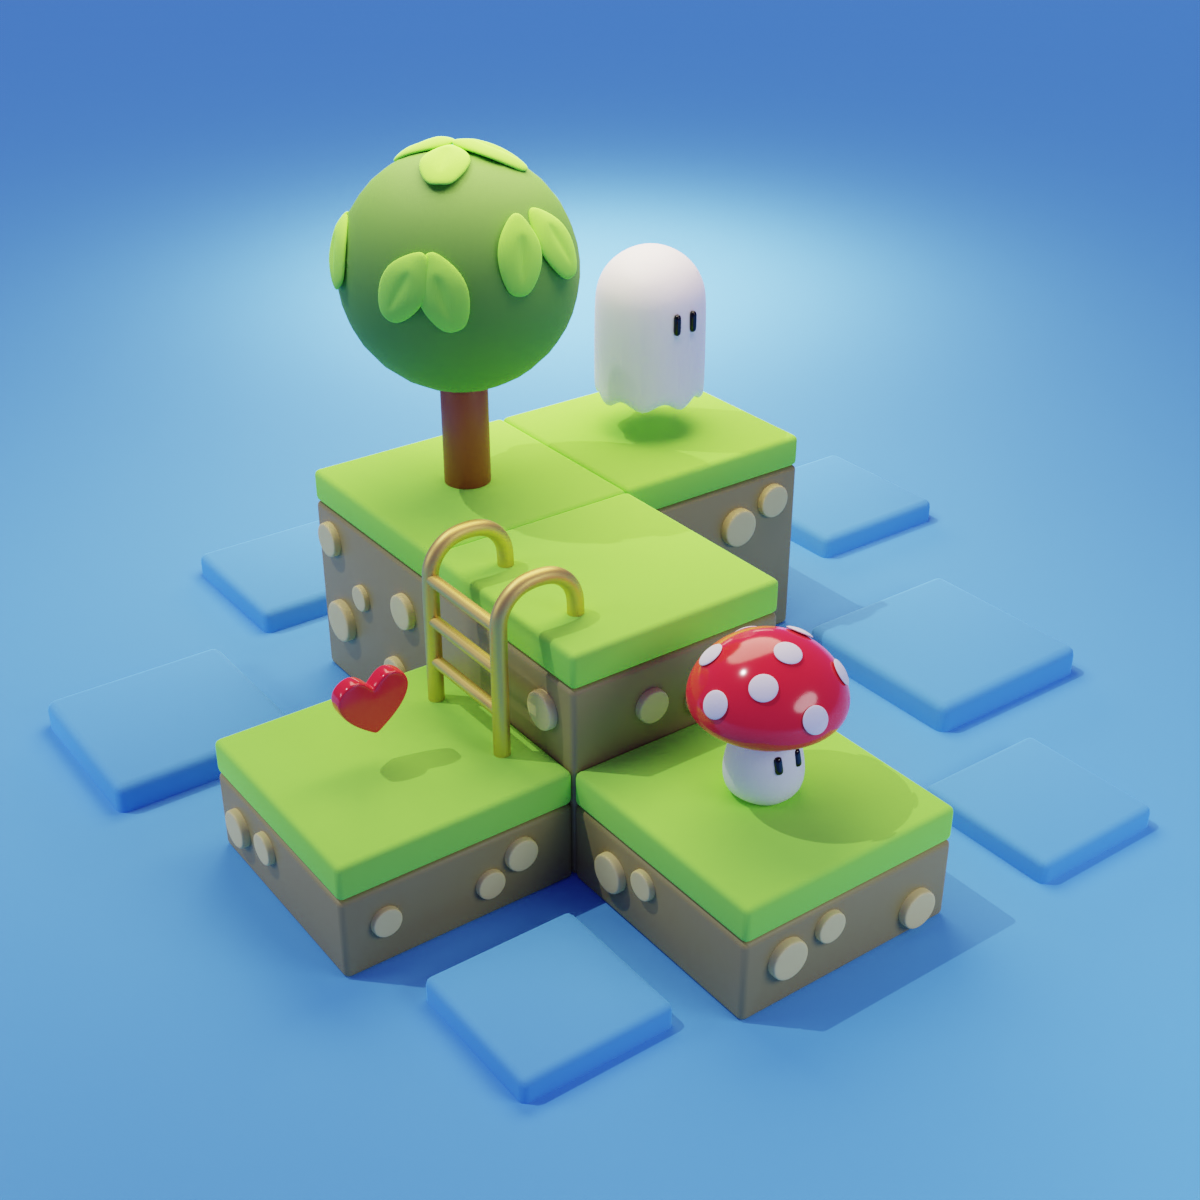
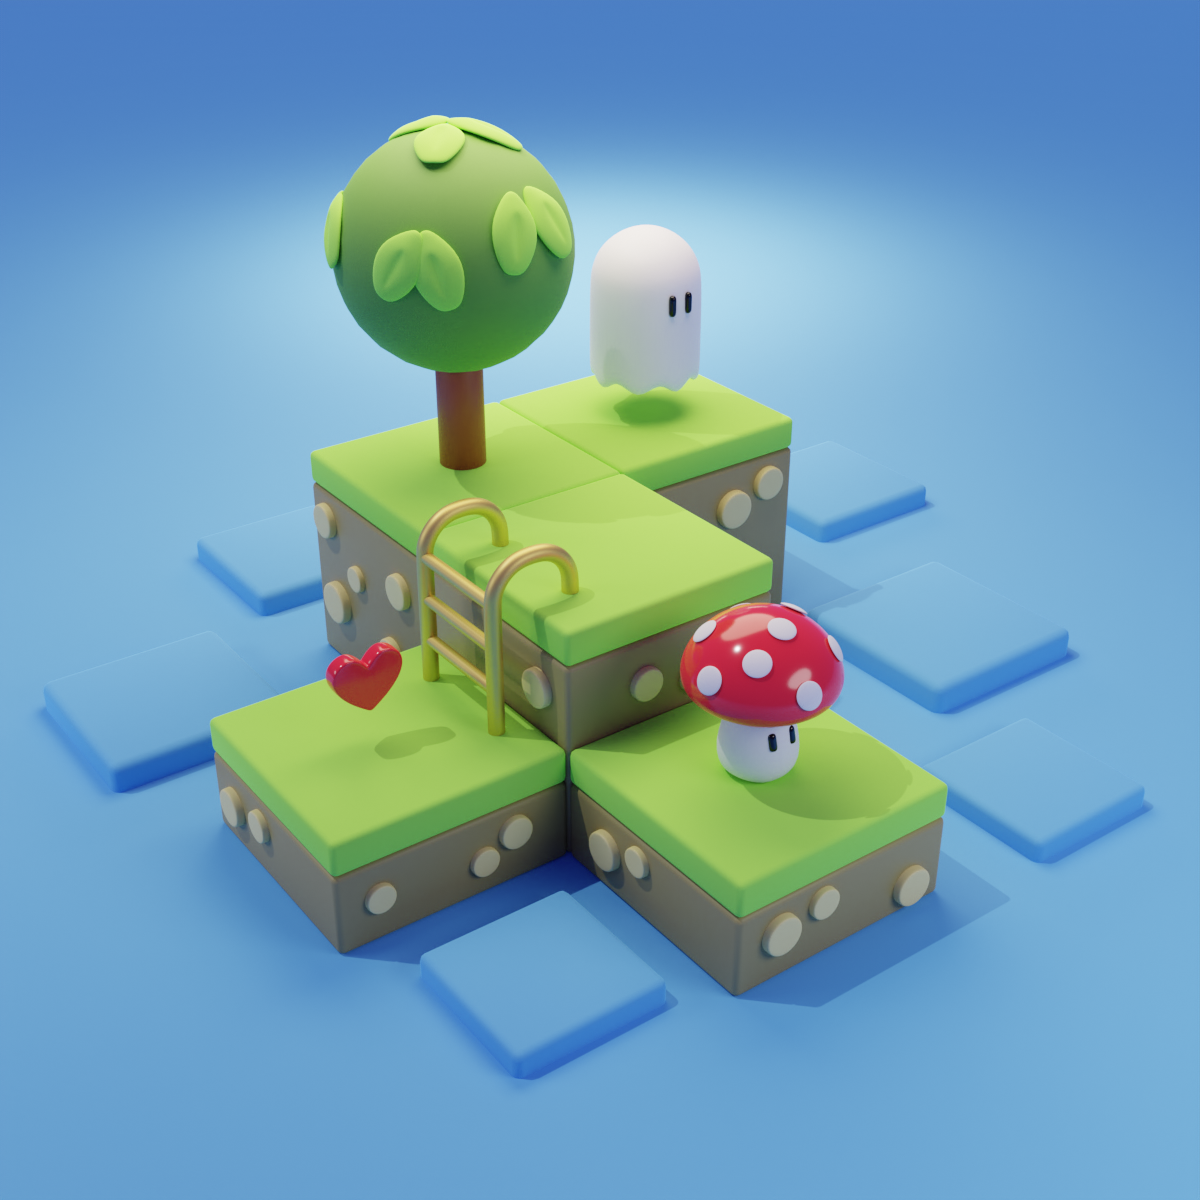
add eevee render

Changed region(s): [[0.0617, 0.2775, 0.9558, 0.925], [0.2467, 0.0925, 0.5858, 0.3083], [0.0308, 0.5858, 0.0617, 0.6167]]

diff --git a/README.md b/README.md
@@ -4,6 +4,6 @@ Any obj file can be rendered (in Blender use export -> selected only -> forward 
 |-----------------------------------|------------------------------|---|
 | ![img](/renders/stbpng1.png?raw=true) | ![img](renders/stbpng2.png?raw=true) | ![img](renders/stbpng3.png?raw=true) |
 
-|           BLENDER CYCLES           |        BLENDER CYCLES        | BLENDER CYCLES |
+|           BLENDER CYCLES           |        BLENDER EEVEE        | BLENDER CYCLES |
 |-----------------------------------|------------------------------|---|
-| ![img](/renders/blender_cycles.png?raw=true) | ![img](renders/blender_cycles.png?raw=true) | ![img](renders/blender_cycles.png?raw=true) |
+| ![img](/renders/blender_cycles.png?raw=true) | ![img](renders/blender_eevee.png?raw=true) | ![img](renders/blender_cycles.png?raw=true) |
